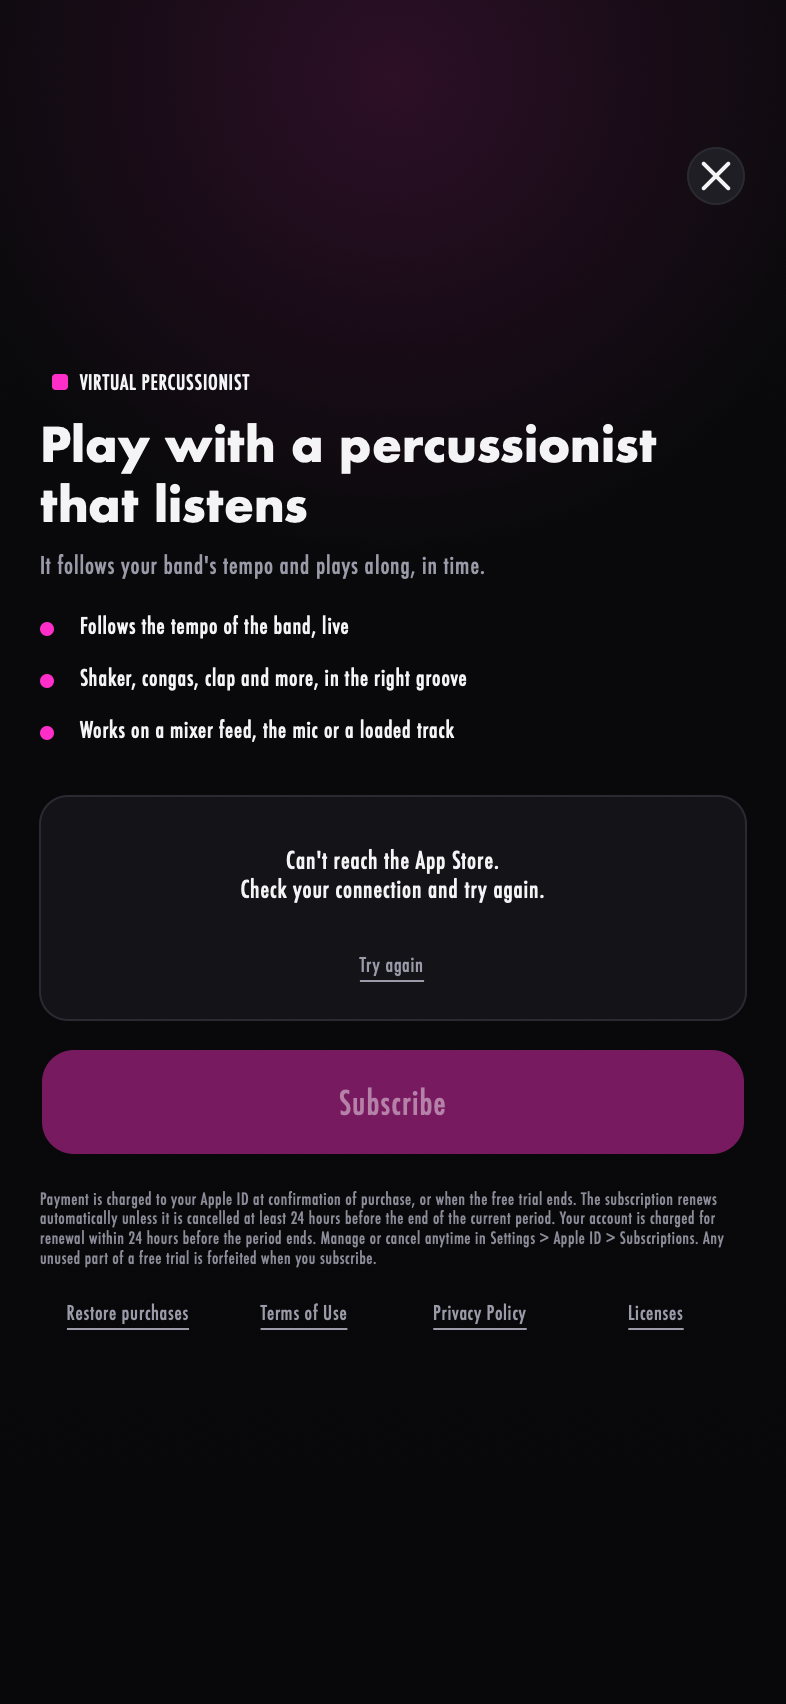
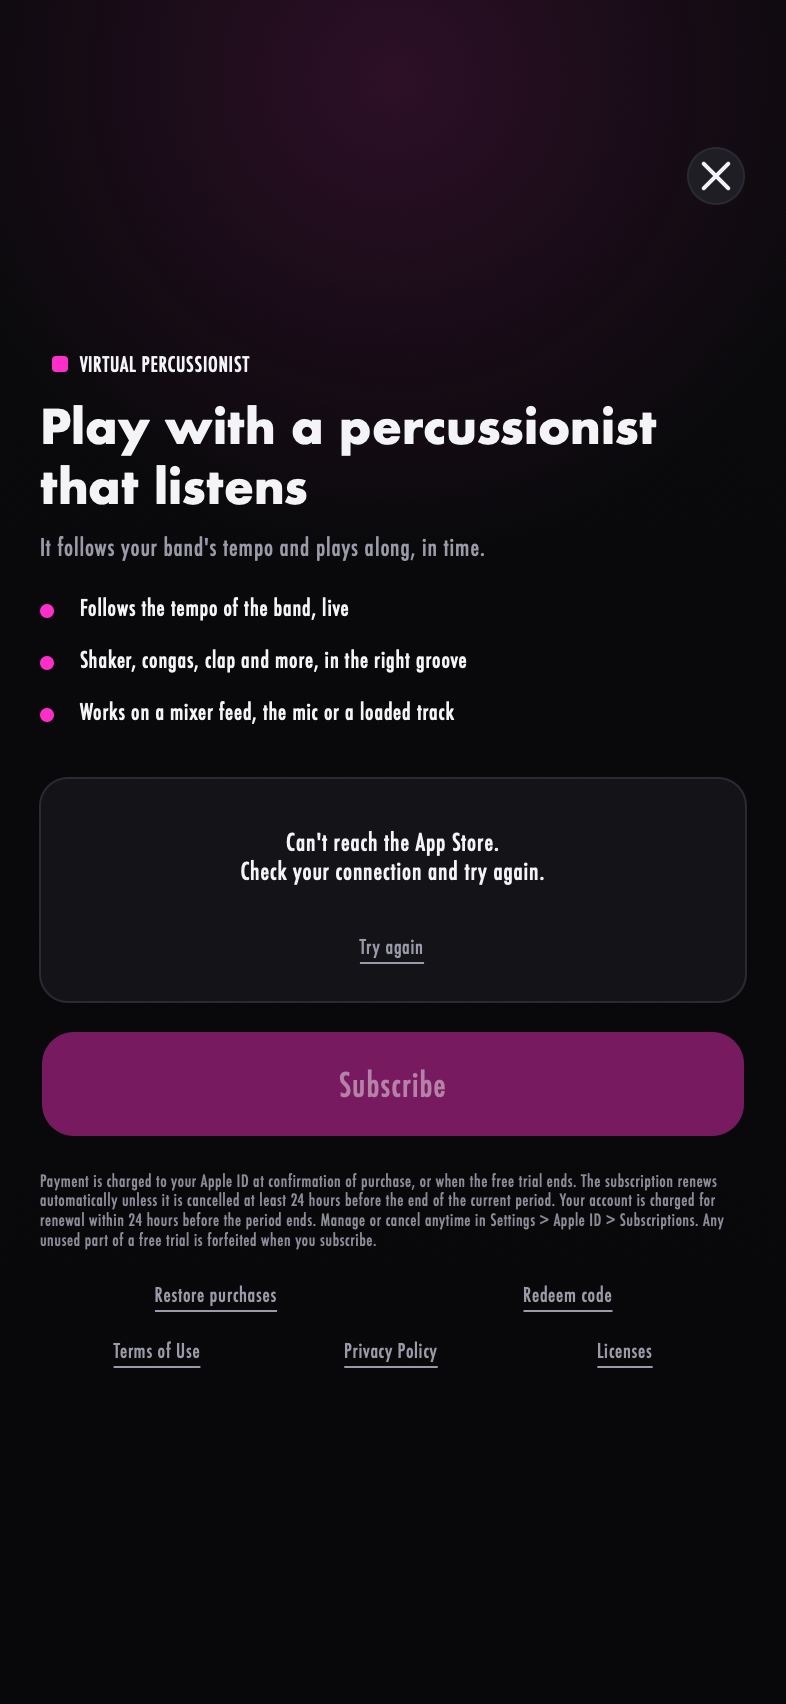
paywall: Redeem code link (offer-code sheet), two rows of links
AppStore.presentOfferCodeRedeemSheet behind vp::store::redeemCode(); shown only
where the store exists. Preview tool: a fresh page per language.

Changed region(s): [[0.0305, 0.4665, 0.9466, 0.8087], [0.0305, 0.1866, 0.855, 0.4354], [0.4275, 0.7776, 0.5496, 0.8087]]

diff --git a/Source/Platform/StoreKitBridge.swift b/Source/Platform/StoreKitBridge.swift
@@ -201,6 +201,17 @@ import UIKit
         }
     }
 
+    @objc public func redeemCode() {
+        Task {
+            let scene = UIApplication.shared.connectedScenes
+                .compactMap { $0 as? UIWindowScene }
+                .first { $0.activationState == .foregroundActive }
+            guard let scene = scene else { return }
+            try? await AppStore.presentOfferCodeRedeemSheet(in: scene)
+            await refresh()   // the redeemed purchase also comes through Transaction.updates
+        }
+    }
+
     @objc public func manage() {
         Task {
             let scene = UIApplication.shared.connectedScenes

diff --git a/Source/UI/PaywallOverlay.cpp b/Source/UI/PaywallOverlay.cpp
@@ -281,6 +281,7 @@ PaywallOverlay::PaywallOverlay()
     for (auto& b : planButtons)
         b = std::make_unique<PlanButton>();
     restoreLink = std::make_unique<LinkButton>();
+    redeemLink = std::make_unique<LinkButton>();
     termsLink = std::make_unique<LinkButton>();
     privacyLink = std::make_unique<LinkButton>();
     licensesLink = std::make_unique<LinkButton>();
@@ -294,6 +295,7 @@ PaywallOverlay::PaywallOverlay()
                                 static_cast<juce::Component*> (planButtons[1].get()),
                                 static_cast<juce::Component*> (planButtons[2].get()),
                                 static_cast<juce::Component*> (restoreLink.get()),
+                                static_cast<juce::Component*> (redeemLink.get()),
                                 static_cast<juce::Component*> (termsLink.get()),
                                 static_cast<juce::Component*> (privacyLink.get()),
                                 static_cast<juce::Component*> (licensesLink.get()),
@@ -326,6 +328,7 @@ PaywallOverlay::PaywallOverlay()
             }
         };
     restoreLink->onClick = [this] { if (! busy && onRestore) onRestore(); };
+    redeemLink->onClick = [this] { if (! busy && onRedeem) onRedeem(); };
     retryLink->onClick = [this] { if (onRetry) onRetry(); };
     manageLink->onClick = [this] { if (onManage) onManage(); };
     termsLink->onClick = [] { juce::URL (kTermsUrl).launchInDefaultBrowser(); };
@@ -622,18 +625,21 @@ void PaywallOverlay::refreshControls()
     }
 
     restoreLink->text = t ("Restore purchases", "Ripristina acquisti");
+    redeemLink->text = t ("Redeem code", "Riscatta codice");
     termsLink->text = t ("Terms of Use", "Condizioni d'uso");
     privacyLink->text = t ("Privacy Policy", "Privacy");
     licensesLink->text = t ("Licenses", "Licenze");
     retryLink->text = t ("Try again", "Riprova");
     manageLink->text = {};
-    for (auto* l : { restoreLink.get(), termsLink.get(), privacyLink.get(), licensesLink.get(), retryLink.get() })
+    for (auto* l : { restoreLink.get(), redeemLink.get(), termsLink.get(), privacyLink.get(), licensesLink.get(), retryLink.get() })
     {
         l->scale = s;
         l->setTitle (l->text);
     }
     restoreLink->setEnabled (! busy);
     restoreLink->setVisible (true);
+    redeemLink->setVisible (static_cast<bool> (onRedeem));
+    redeemLink->setEnabled (! busy);
     termsLink->setVisible (true);
     privacyLink->setVisible (true);
     licensesLink->setVisible (true);
@@ -733,7 +739,7 @@ void PaywallOverlay::layoutAll()
         right.add ({ nullptr, static_cast<int> (8 * s) });
         right.add ({ &g.legal, textHeight (legalText(), F (10.5f, false), colW) });
         right.add ({ nullptr, static_cast<int> (6 * s) });
-        right.add ({ &g.links, static_cast<int> (28 * s) });
+        right.add ({ &g.links, static_cast<int> (56 * s) });   // two rows
 
         auto sum = [] (const juce::Array<Item>& v) { int n = 0; for (auto& i : v) n += i.h; return n; };
         leftH = sum (left);
@@ -781,10 +787,15 @@ void PaywallOverlay::layoutAll()
     for (int i = 0; i < 3; ++i)
         planButtons[i]->setBounds (geo.planRect[i]);
 
-    auto row = geo.links;
-    const int cell = colW / 4;
-    for (auto* l : { restoreLink.get(), termsLink.get(), privacyLink.get(), licensesLink.get() })
-        l->setBounds (row.removeFromLeft (cell));
+    // Two rows: the page's own actions, then the legal links.
+    auto links = geo.links;
+    auto actions = links.removeFromTop (links.getHeight() / 2);
+    const int half = colW / 2;
+    for (auto* l : { restoreLink.get(), redeemLink.get() })
+        l->setBounds (actions.removeFromLeft (half));
+    const int third = colW / 3;
+    for (auto* l : { termsLink.get(), privacyLink.get(), licensesLink.get() })
+        l->setBounds (links.removeFromLeft (third));
     retryLink->setBounds (geo.statusCard.withSizeKeepingCentre (150, 30).translated (0, 28));
 
     refreshControls();

diff --git a/scripts/paywall_shots.cpp b/scripts/paywall_shots.cpp
@@ -106,6 +106,7 @@ int main (int argc, char** argv)
     juce::ScopedJuceInitialiser_GUI gui;
 
     PaywallOverlay p;
+    p.onRedeem = [] {};   // the link is shown when the store can take a code
     p.setClock ([] { return kNow; });
     p.setItalian (false);
 
@@ -182,32 +183,36 @@ int main (int argc, char** argv)
 
         for (const bool it : { false, true })
         {
-            p.setItalian (it);
+            // a fresh page per language: the licences page stays open once shown
+            PaywallOverlay q;
+            q.onRedeem = [] {};
+            q.setClock ([] { return kNow; });
+            q.setItalian (it);
             const juce::String L = it ? "it-" : "en-";
-            shoot (p, offer (true), dir, L + "1-offer-trial-phone", 393, 852, phoneSafe, true);
-            shoot (p, offer (true), dir, L + "1-offer-trial-phone-light", 393, 852, phoneSafe, false);
-            shoot (p, offer (true), dir, L + "2-offer-trial-ipad", 820, 1180, padSafe, true);
-            shoot (p, offer (true), dir, L + "3-offer-trial-phone-landscape", 852, 393, phoneLandSafe, true);
-            shoot (p, offer (false, true), dir, L + "4-offer-ended-phone", 393, 852, phoneSafe, true);
-            shoot (p, inTrial(), dir, L + "5-status-trial-phone", 393, 852, phoneSafe, true);
-            shoot (p, subscribed (true), dir, L + "6-status-subscribed-phone", 393, 852, phoneSafe, true);
-            shoot (p, subscribed (false), dir, L + "7-status-cancelled-phone", 393, 852, phoneSafe, true);
+            shoot (q, offer (true), dir, L + "1-offer-trial-phone", 393, 852, phoneSafe, true);
+            shoot (q, offer (true), dir, L + "1-offer-trial-phone-light", 393, 852, phoneSafe, false);
+            shoot (q, offer (true), dir, L + "2-offer-trial-ipad", 820, 1180, padSafe, true);
+            shoot (q, offer (true), dir, L + "3-offer-trial-phone-landscape", 852, 393, phoneLandSafe, true);
+            shoot (q, offer (false, true), dir, L + "4-offer-ended-phone", 393, 852, phoneSafe, true);
+            shoot (q, inTrial(), dir, L + "5-status-trial-phone", 393, 852, phoneSafe, true);
+            shoot (q, subscribed (true), dir, L + "6-status-subscribed-phone", 393, 852, phoneSafe, true);
+            shoot (q, subscribed (false), dir, L + "7-status-cancelled-phone", 393, 852, phoneSafe, true);
 
             vp::store::Status loading;
-            shoot (p, loading, dir, L + "8-loading-phone", 393, 852, phoneSafe, true);
+            shoot (q, loading, dir, L + "8-loading-phone", 393, 852, phoneSafe, true);
             vp::store::Status failed;
             failed.access = vp::store::Access::locked;
             failed.productsFailed = true;
-            shoot (p, failed, dir, L + "9-offline-phone", 393, 852, phoneSafe, true);
+            shoot (q, failed, dir, L + "9-offline-phone", 393, 852, phoneSafe, true);
 
-            p.setStatus (offer (true));
-            p.setNotice (PaywallOverlay::Notice::pending);
-            shoot (p, offer (true), dir, L + "10-pending-phone", 393, 852, phoneSafe, true);
-            p.setNotice (PaywallOverlay::Notice::none);
-            p.setStatus (offer (true));
-            p.setSize (393, 852);
-            p.showLicenses();
-            shoot (p, offer (true), dir, L + "11-licenses-phone", 393, 852, phoneSafe, true);
+            q.setStatus (offer (true));
+            q.setNotice (PaywallOverlay::Notice::pending);
+            shoot (q, offer (true), dir, L + "10-pending-phone", 393, 852, phoneSafe, true);
+            q.setNotice (PaywallOverlay::Notice::none);
+            q.setStatus (offer (true));
+            q.setSize (393, 852);
+            q.showLicenses();
+            shoot (q, offer (true), dir, L + "11-licenses-phone", 393, 852, phoneSafe, true);
         }
         std::printf ("screens written to %s\n", dir.getFullPathName().toRawUTF8());
     }

diff --git a/Source/UI/PaywallOverlay.h b/Source/UI/PaywallOverlay.h
@@ -41,6 +41,8 @@ public:
     std::function<void()> onClose;
     std::function<void (const std::string& planId)> onPurchase;
     std::function<void()> onRestore, onManage, onRetry;
+    /** Opens the offer-code sheet. The "Redeem code" link is shown only when set. */
+    std::function<void()> onRedeem;
 
     /** What the main button says and does, for tests. */
     juce::String ctaText() const;
@@ -79,7 +81,7 @@ private:
 
     std::unique_ptr<PillButton> closeButton, ctaButton;
     std::unique_ptr<PlanButton> planButtons[3];
-    std::unique_ptr<LinkButton> restoreLink, termsLink, privacyLink, licensesLink, retryLink, manageLink;
+    std::unique_ptr<LinkButton> restoreLink, redeemLink, termsLink, privacyLink, licensesLink, retryLink, manageLink;
     std::unique_ptr<LicensesPage> licensesPage;
 
     struct Geometry

diff --git a/Source/UI/MainComponent.cpp b/Source/UI/MainComponent.cpp
@@ -573,6 +573,9 @@ MainComponent::MainComponent()
     paywall.onClose = [this] { showPaywall (false); };
     paywall.onRetry = [] { vp::store::reloadProducts(); };
     paywall.onManage = [] { vp::store::manage(); };
+   #if defined (VP_STOREKIT)
+    paywall.onRedeem = [] { vp::store::redeemCode(); };   // no store, no code sheet
+   #endif
     paywall.onPurchase = [this] (const std::string& id)
     {
         paywall.setNotice (PaywallOverlay::Notice::none);

diff --git a/Source/Platform/Subscription.h b/Source/Platform/Subscription.h
@@ -87,4 +87,8 @@ void restore (std::function<void (bool ok)> done);
 /** Apple's own Manage Subscriptions sheet (cancel, change plan). */
 void manage();
 
+/** Apple's offer-code sheet: where a gift or promotional code is typed in. The
+    purchase then arrives like any other, through the transaction updates. */
+void redeemCode();
+
 } // namespace vp::store

diff --git a/Source/Platform/Subscription.mm b/Source/Platform/Subscription.mm
@@ -91,4 +91,9 @@ void manage()
     [VPStore.shared manage];
 }
 
+void redeemCode()
+{
+    [VPStore.shared redeemCode];
+}
+
 } // namespace vp::store

diff --git a/Source/Platform/Subscription.cpp b/Source/Platform/Subscription.cpp
@@ -40,6 +40,8 @@ void restore (std::function<void (bool)> done)
 }
 
 void manage() {}
+
+void redeemCode() {}
 #endif
 
 } // namespace vp::store

diff --git a/docs/APPSTORE.md b/docs/APPSTORE.md
@@ -45,6 +45,22 @@ provarlo»).
   creato in App Store Connect anche il prodotto lifetime
   (`com.virtualpercussionist.app.pro.lifetime`).
 
+### Uso gratuito e regali
+
+- **Tu**: una Run da Xcode in Debug non ha paywall. Con la build dello store: un
+  **codice offerta** gratuito sul lifetime per il tuo ID Apple, oppure
+  TestFlight (acquisti di prova gratuiti, 90 giorni per build). Nessuna porta
+  segreta nell'app.
+- **Regali**: *Offer Codes* in App Store Connect (valgono anche per acquisti
+  singoli come il lifetime; codici monouso con scadenza massima di 6 mesi,
+  1 milione a trimestre, max 10 offerte attive). Verificare in App Store
+  Connect se il prezzo di un codice sul lifetime può essere zero. Chi li riceve
+  li riscatta da un link `apps.apple.com/redeem?...`, dalla scheda dell'App
+  Store o **dentro l'app** dal link «Riscatta codice» della pagina
+  dell'abbonamento (`AppStore.presentOfferCodeRedeemSheet`, aggiunto
+  2026-10-16, mai provato con un codice vero). L'acquisto arriva come una
+  normale transazione verificata.
+
 ## 2. Da fare in App Store Connect (non automatizzabile)
 
 Testi pronti da incollare (EN/IT: descrizione, parole chiave, abbonamenti, note
